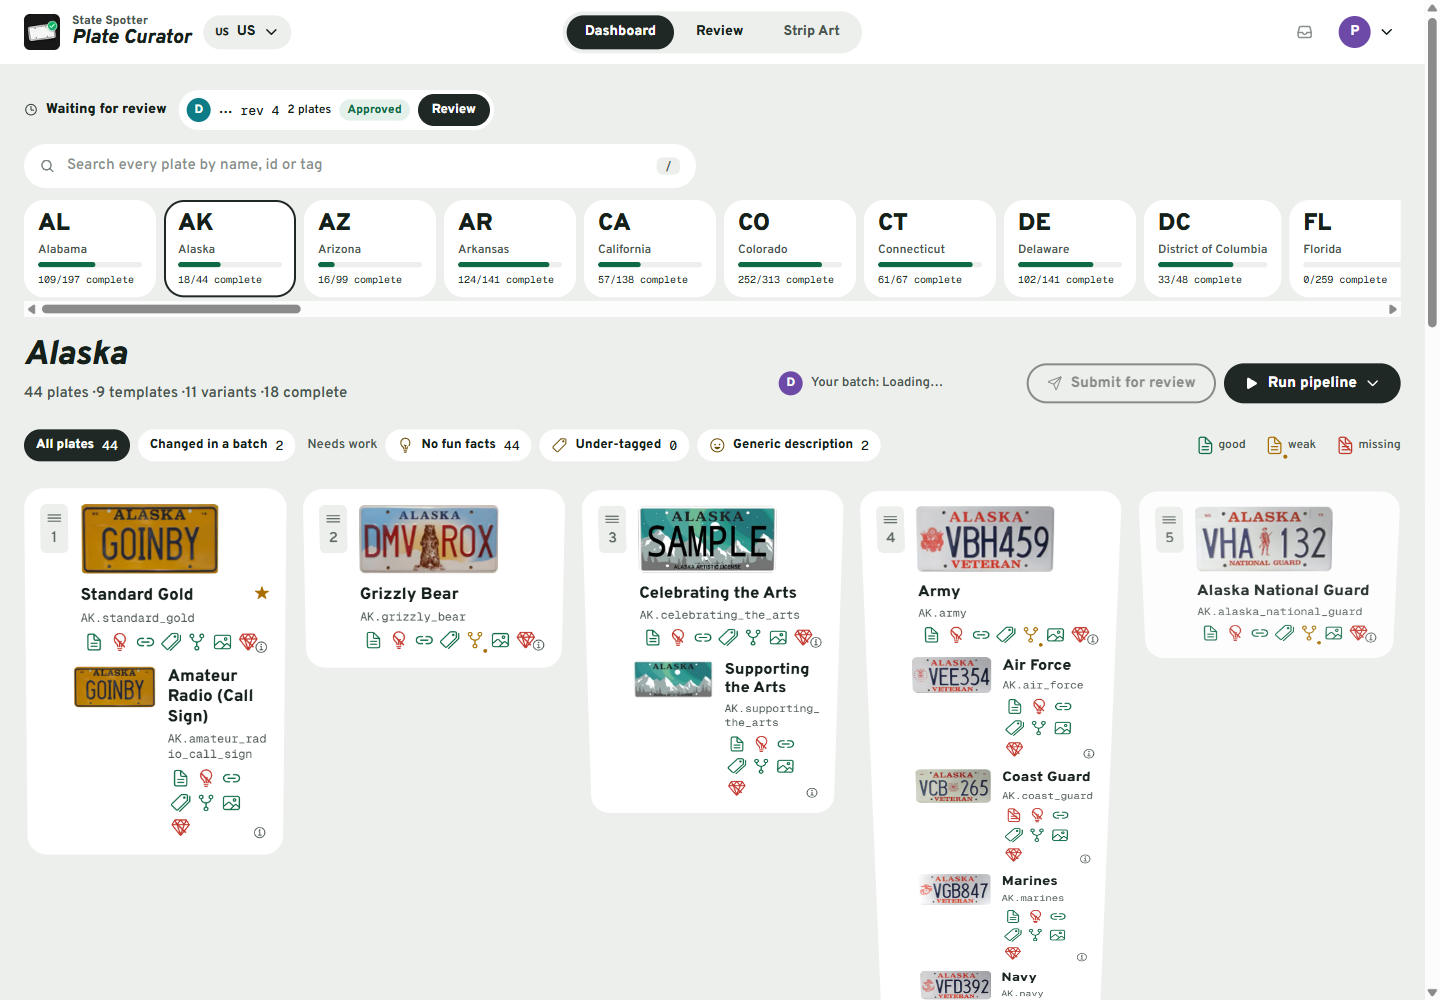
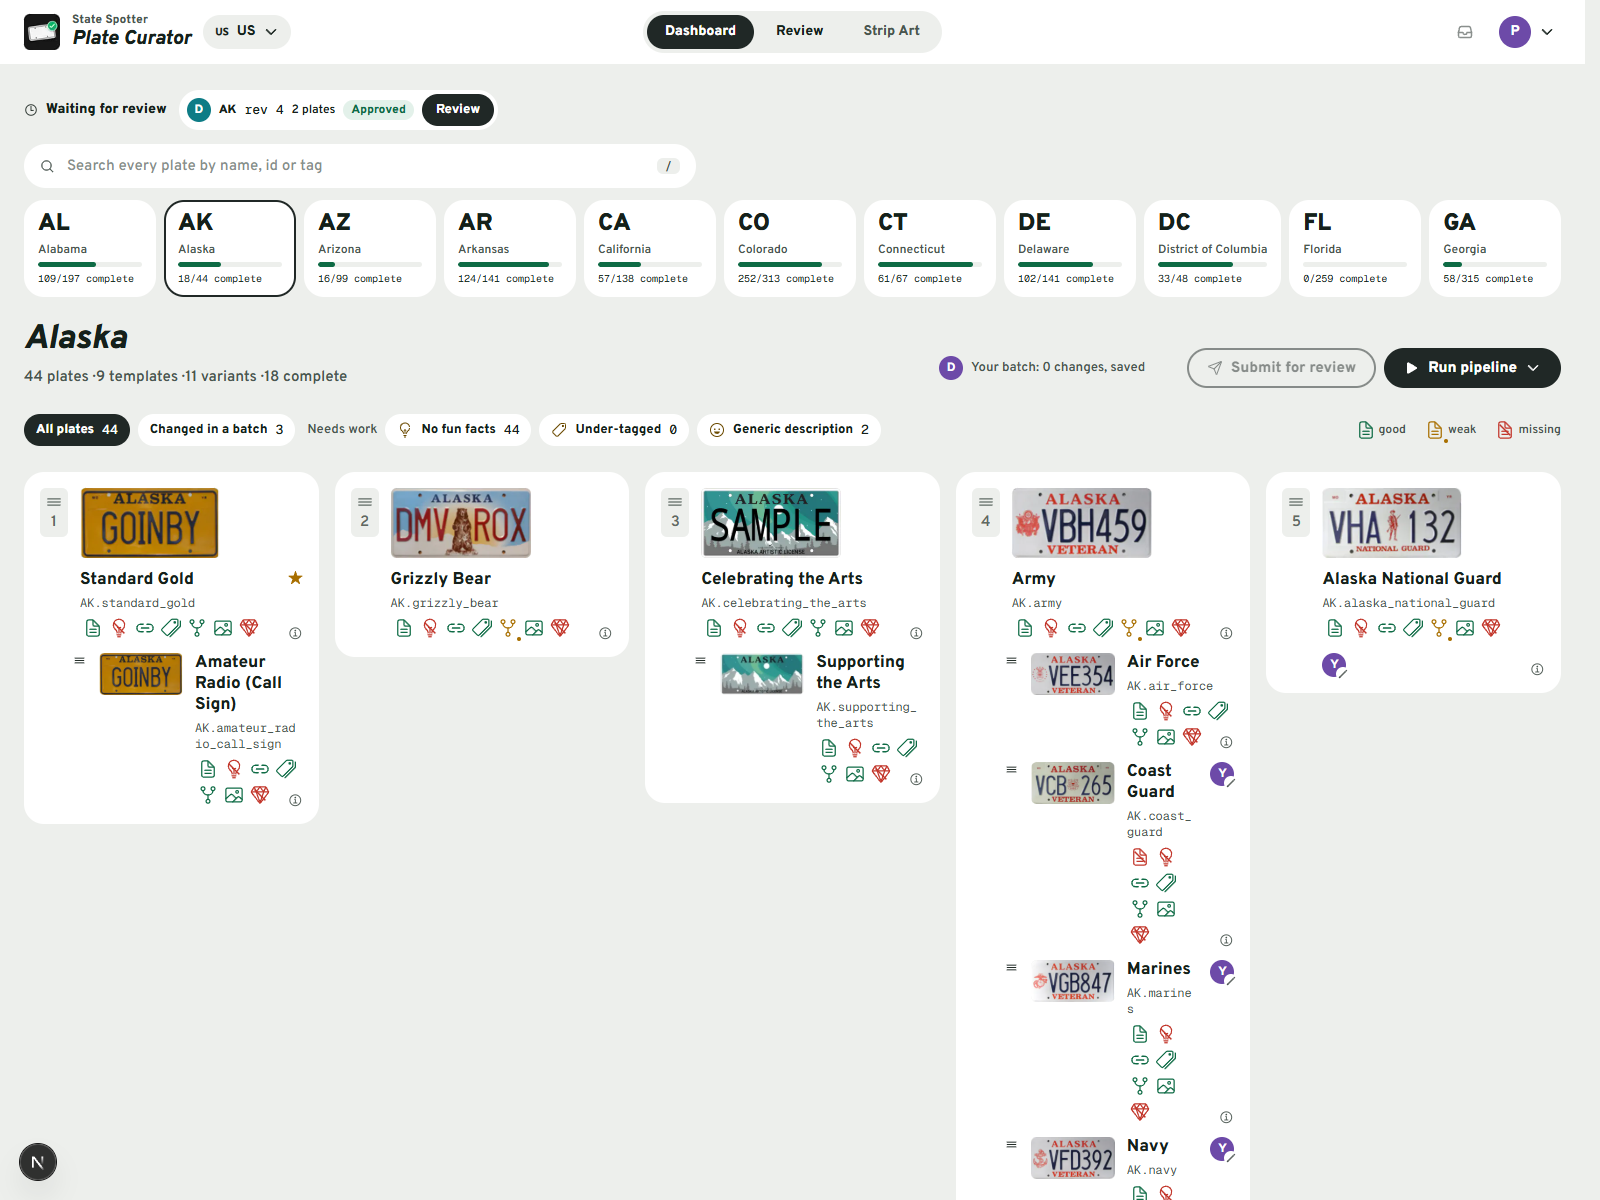
fix(ui): align plate entrance origins and capture drop frames

diff --git a/tests/grid-feel-interactions.test.tsx b/tests/grid-feel-interactions.test.tsx
@@ -76,13 +76,13 @@ test('reduced motion leaves all cards immediately visible without animation', ()
 
 test('only visible images animate in visual lines while containers stay still', () => {
   const container = grid()
-  container.current.innerHTML = '<div><article><div data-plate-image></div><div data-plate-image></div></article><article><div data-plate-image></div><div data-plate-image></div></article></div>'
+  container.current.innerHTML = '<div><article><div data-plate-image></div><div data-plate-image></div></article><article><div data-plate-image></div><div data-plate-image></div><div data-plate-image></div></article></div>'
   const images = Array.from(container.current.querySelectorAll('[data-plate-image]'))
-  const positions = [{ top: 100, left: 20 }, { top: 200, left: 20 }, { top: 100, left: 220 }, { top: 1200, left: 220 }]
+  const positions = [{ top: 100, left: 20 }, { top: 200, left: 20 }, { top: 108, left: 220 }, { top: 109, left: 420 }, { top: 1200, left: 220 }]
   images.forEach((image, index) => { image.getBoundingClientRect = () => ({ ...positions[index], bottom: positions[index].top + 42 }) as DOMRect })
   renderHook(() => useGridEntrance(container, true, '/states/AK'))
-  expect(animate.mock.contexts).toEqual([images[0], images[0], images[2], images[2], images[1], images[1]])
-  expect(animate.mock.calls.map(call => call[1].delay)).toEqual([0, 0, 30, 30, 55, 55])
+  expect(animate.mock.contexts).toEqual([images[0], images[0], images[2], images[2], images[3], images[3], images[1], images[1]])
+  expect(animate.mock.calls.map(call => call[1].delay)).toEqual([0, 0, 30, 30, 55, 55, 110, 110])
   container.current.remove()
 })
 test('preview stays closed while its plate image is dropping', () => {

diff --git a/components/plate/family-card.tsx b/components/plate/family-card.tsx
@@ -115,7 +115,7 @@ export function FamilyCard({
           <div
             data-plate-image
             style={{ width, height }}
-            className="flex shrink-0 items-center justify-center overflow-hidden rounded-[var(--radius-sm)] bg-[var(--fill)] text-[var(--ink-3)]"
+            className="flex origin-top shrink-0 items-center justify-center overflow-hidden rounded-[var(--radius-sm)] bg-[var(--fill)] text-[var(--ink-3)]"
           >
             {plate.imageUrl ? (
               <Image

diff --git a/components/dashboard/use-grid-entrance.ts b/components/dashboard/use-grid-entrance.ts
@@ -16,7 +16,7 @@ export function useGridEntrance(container: RefObject<HTMLDivElement | null>, rea
       const lines: typeof images[] = []
       for (const entry of images) {
         const line = lines.at(-1)
-        if (line && Math.abs(entry.bounds.top - line[0].bounds.top) <= 12) line.push(entry)
+        if (line && Math.abs(entry.bounds.top - line[0].bounds.top) <= 8) line.push(entry)
         else lines.push([entry])
       }
       lines.forEach((line, row) => {
